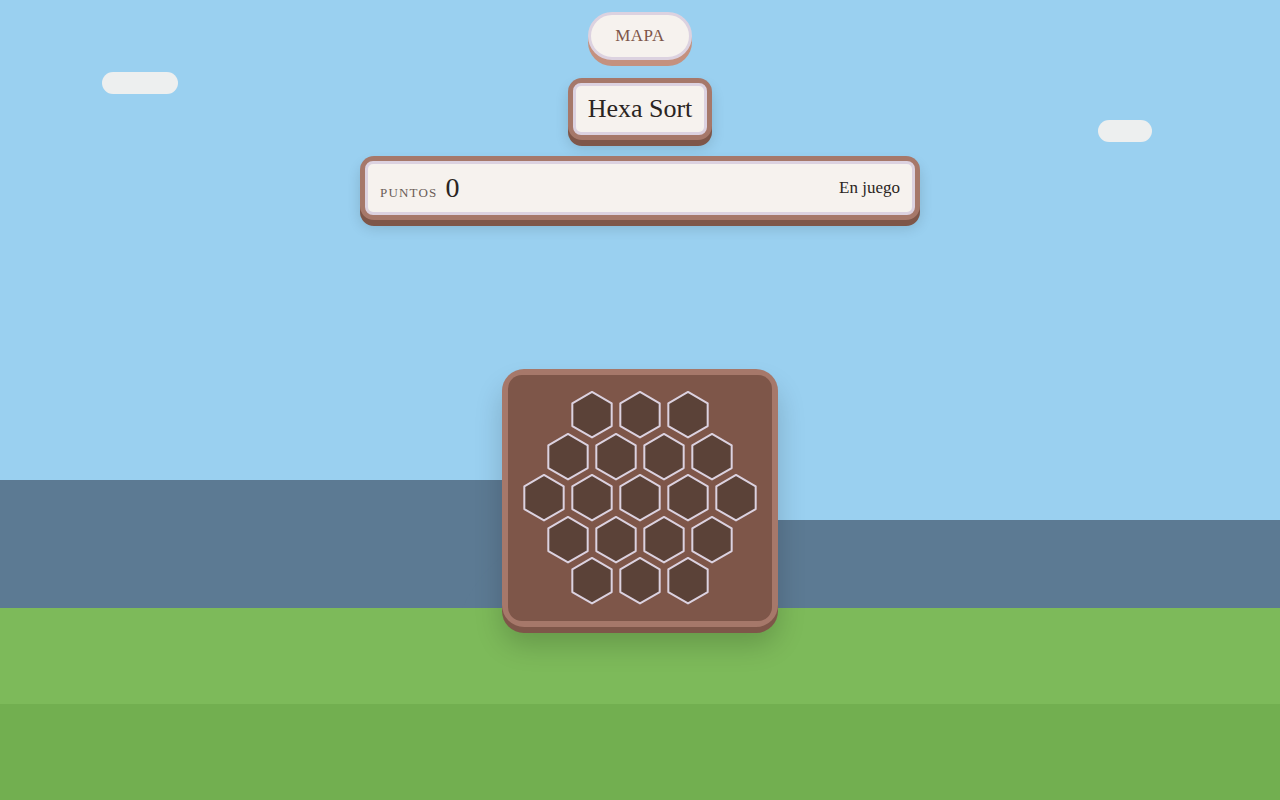
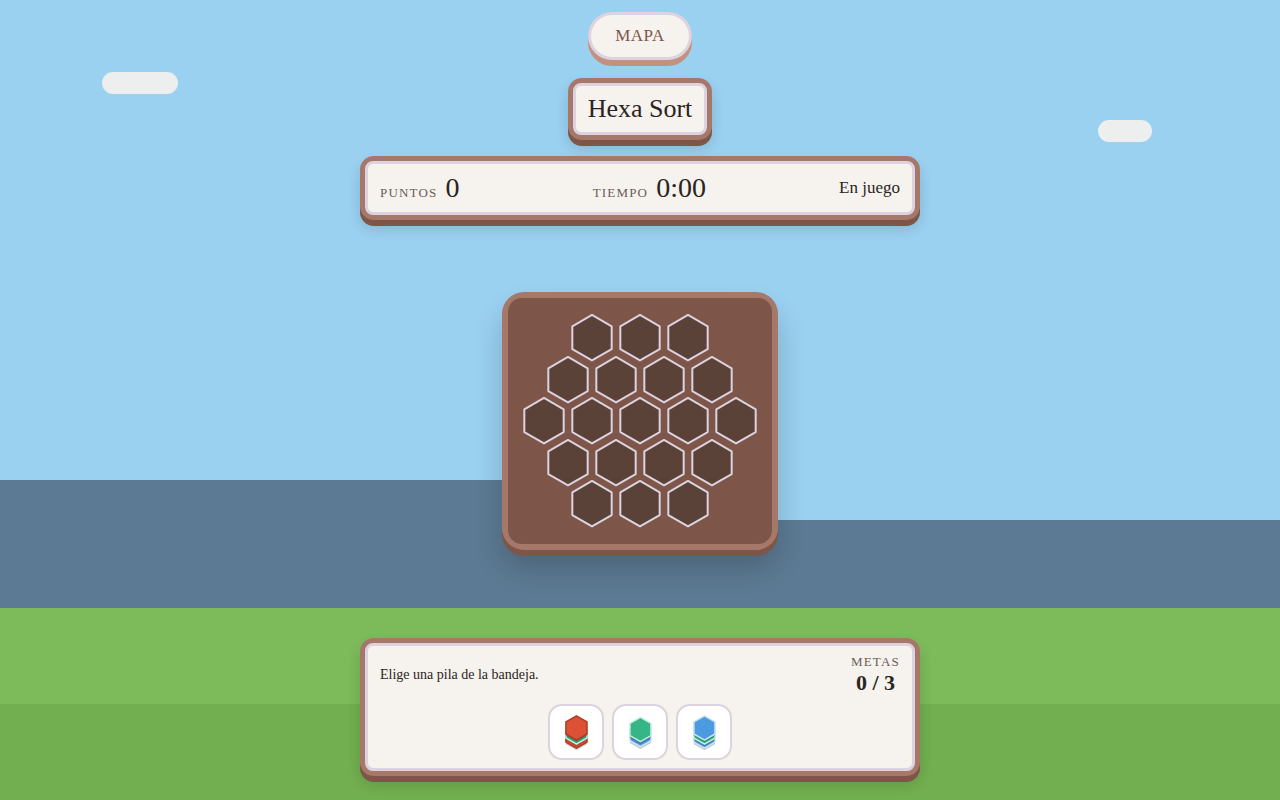
docs: fix the undo sentence, add LoadProgress to flows.md, retake the Sort screenshots (#469)
Refs #469

Changed region(s): [[0.2812, 0.3438, 0.7188, 1.0], [0.4688, 0.2188, 0.5625, 0.25]]

diff --git a/docs/architecture/flows.md b/docs/architecture/flows.md
@@ -100,6 +100,7 @@ Each other use case follows the path of one flow above. Its own classes are in t
 | --------------------------------------------- | -------------------------------------------------------------------------------------------------------------------------------------------------------------------------------------------------------------------------------------------------------------------------------------------------------------------------------------------------------------------------------------------------------------------------------------------------------------------------------------------------------------------------------------- |
 | `RedoMove`                                    | Same path as flow 4: it asks `GameEngine.canRedo()` and calls `GameEngine.redo()`, and the root asks the `IRedoable` of its history. In Hexa Fit, `RedoableHistory` redoes the last undone `MoveCommand` with its `after` photo (#178).                                                                                                                                                                                                                                                                                                |
 | `ListLevels`                                  | Same path as flow 2, except that it reads: it calls `LevelRepository.list()` and `unavailable()`, `ProgressRepository.owner()` and `load()` and returns a `LevelList`: one `LevelSummary` per level of the chosen figure and the unavailable levels of the game (#307). `CombinedLevelRepository` gives the bundled levels (A6) and the levels that `ApiLevelRepository` keeps in memory (#48). It reads the local progress, needs no session and waits for no network (D27).                                                          |
+| `LoadProgress`                                | Same path as flow 2, except that it reads: it calls `ProgressRepository.owner()` and `load(owner, gameId)` and returns the `GameProgress` of the game, or no progress when the game has none (#181, decision 56). The game selector map calls it through `useSavedProgresses()` once for each game of the figure and shows the saved progress (#410). It writes nothing, needs no session and waits for no network. View 3.3 draws the classes.                                                                                        |
 | `SyncProgress`                                | Flow 2 draws it since #46: it runs after each save and after a sign-in, sends the local progress through the `ProgressGateway` port and merges the answer into `GameProgress` with the rule of DS-12 (decision 66).                                                                                                                                                                                                                                                                                                                    |
 | `GetGlobalLeaderboard`, `GetLevelLeaderboard` | Same path to the backend as `SyncProgress` in the flow 2 diagrams, with no progress port (#47, decision 67). `LeaderboardPresenter` calls one of the two through the `UseCase` port. The use case reads the session through `SessionStore`, and `ApiLeaderboardGateway` reads the board through the transport interface `LeaderboardApi`: `ApiClient` sends `GET /v1/leaderboard/{gameId}` or `GET /v1/leaderboard/{gameId}/levels/{levelId}` with the token, and `ApiDtoMapper` builds the `Leaderboard`. View 3.7 draws the classes. |
 | `Register`                                    | Same path as flow 5, except that it calls `AccountGateway.register()`: the first HTTP call goes to `AuthController.signUp()`, and then the gateway signs the new account in as flow 5 does (#45).                                                                                                                                                                                                                                                                                                                                      |

diff --git a/README.md b/README.md
@@ -236,7 +236,7 @@ Fit grades a won level with stars by moves and time, not with points (statement 
 
 - Policy: [`FitScoring`](src/domain/variants/hexa-fit/fit-scoring.ts) gives `FIT_POINTS_PER_TURN` = 0 on every turn, a `Score` (#232).
 - Stars: `starsOf(play, thresholds)` counts the stars of a won level by moves and time, with the play and the thresholds of [`fit-stars.ts`](src/domain/variants/hexa-fit/fit-stars.ts) (#424): a star needs both `moves <= maxMoves` and `elapsedMs <= maxElapsedMs`. The level file holds the thresholds, and each [`FitLevel`](src/domain/variants/hexa-fit/fit-level.ts) keeps them and counts the stars of a play with `starsFor(moves, elapsedMs)` ([#166](https://github.com/Hexablock-Suite/hexablock-app/issues/166)). The stars are cumulative: star N needs star N-1, so the count stops at the first threshold that the play misses. The play is a `FitPlay`, each threshold is a `FitStarThreshold` whose `isMetBy(play)` tells whether the play meets it, and the result is a `Stars` value (decision 42). The moves are a `Moves` value and the time is an [`ElapsedTime`](src/domain/shared/elapsed-time.ts) value: a move count or a time in milliseconds that is not a whole number of 0 or more throws a `RangeError`.
-- Moves ([#60](https://github.com/Hexablock-Suite/hexablock-app/issues/60)): every accepted place, rotate and remove counts one move, and a rejected move counts nothing. [`FitState.moves`](src/domain/variants/hexa-fit/fit-state.ts) holds the count as a `Moves` value, so undo restores the count before the move. Undo itself comes with `MoveHistory` in Sprint 3.
+- Moves ([#60](https://github.com/Hexablock-Suite/hexablock-app/issues/60)): every accepted place, rotate and remove counts one move, and a rejected move counts nothing. [`FitState.moves`](src/domain/variants/hexa-fit/fit-state.ts) holds the count as a `Moves` value, so undo restores the count before the move. The `RedoableHistory` of Hexa Fit undoes each move and redoes it (#178).
 - Example from [`fit-scoring.test.ts`](test/domain/variants/hexa-fit/fit-scoring.test.ts): with one star of 10 moves and 60 000 ms, a play of 10 moves and 60 000 ms gets the star. A play of 10 moves and 60 001 ms gets no star, because only the moves meet the threshold.
 
 ### Adding a fifth variant

diff --git a/docs/web/README.md b/docs/web/README.md
@@ -33,6 +33,13 @@ How they were taken, on 2026-11-22:
 - The home screen, the map and the achievements screen opened by their address. Each game screen opened with a click on its world on the map, on the hexagon. A reload of each game screen also opens it.
 - The script kept the browser console of each screen. With the hexagon, the default figure, no screen showed an error or a warning. The console shows only the log lines of the use cases, such as `StartGame: success`.
 
+The two Hexa Sort screenshots were taken again on 2026-11-28 (#469), because the tray offers three stacks since #453:
+
+- The code is `main` at `dc12b75`. `expo export --platform web` wrote the export to a temporary directory outside the repository, and a small static server outside the repository served it on `127.0.0.1`.
+- The same kind of Playwright script drove headless Chromium with a fresh context, at the same two viewports and a device scale of 1.
+- Since #173 the map opens the level selector for Hexa Sort. The script clicked Hexa Sort on the map, then «Nivel 1», so the game screen shows the level `sort-01` with its tray of three stacks.
+- The console showed only the log lines of the use cases, such as `StartGame: success`, and no error or warning.
+
 ## What works on the web
 
 Measured in the export on 2026-11-22, in headless Chromium:
